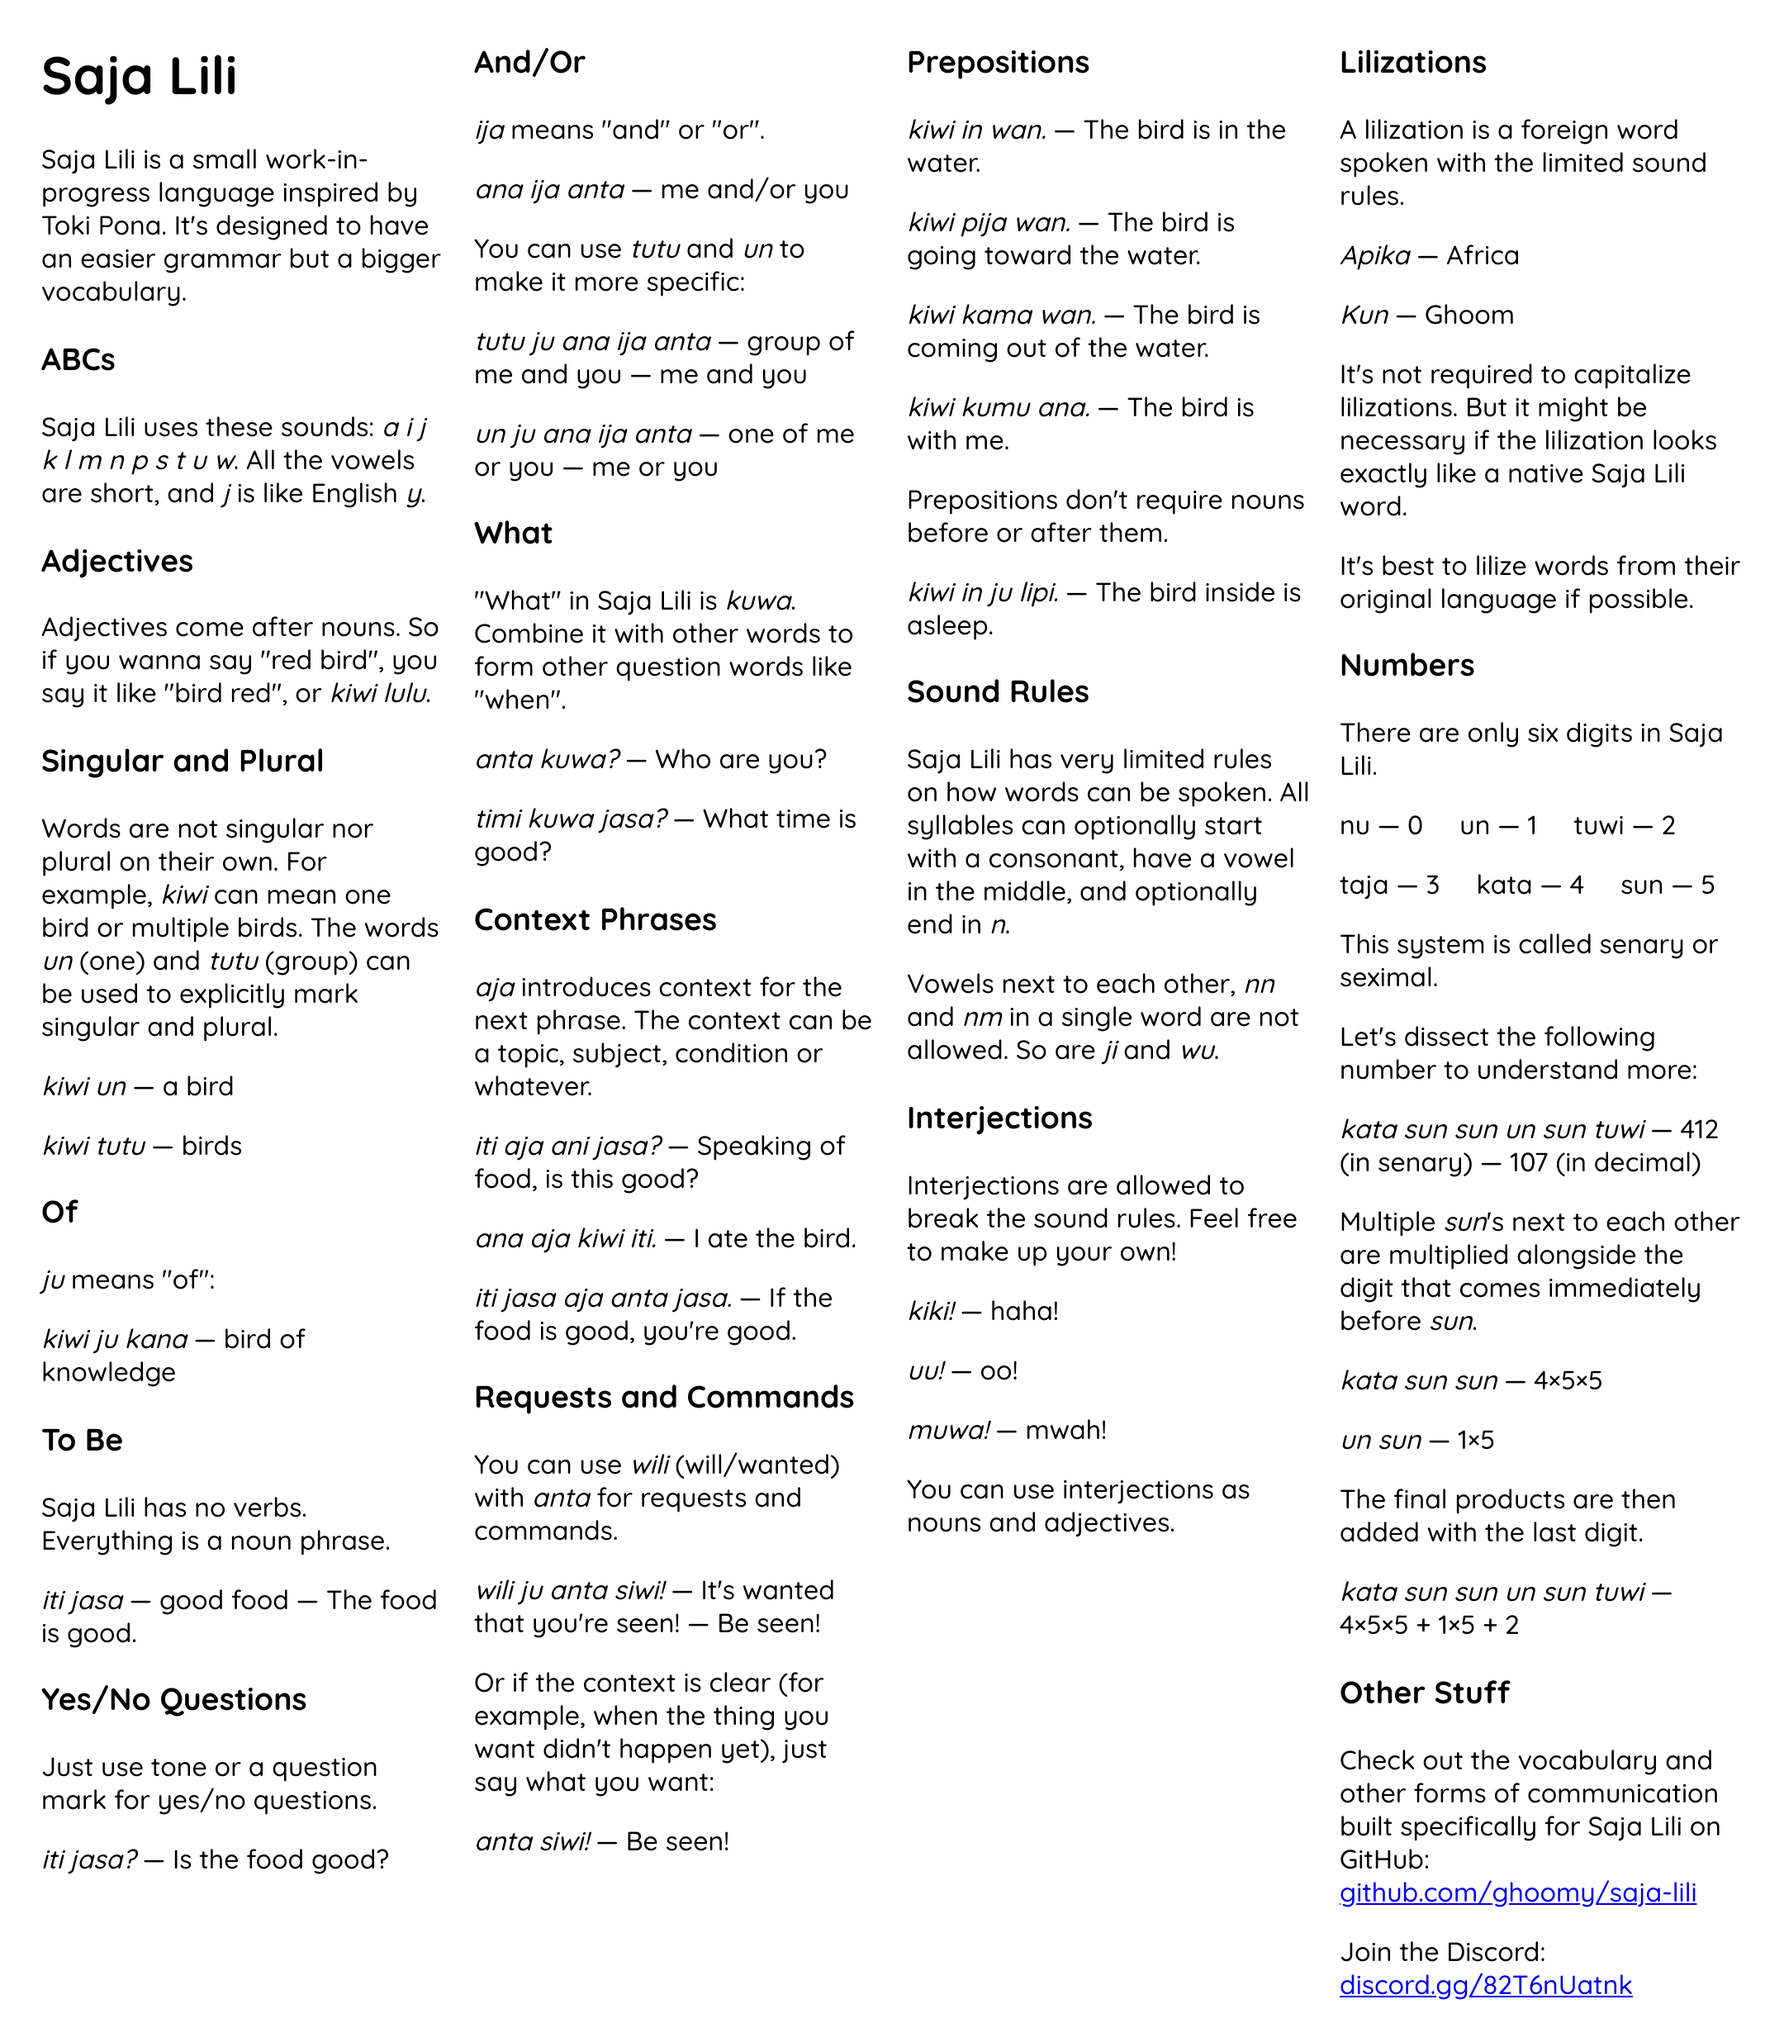
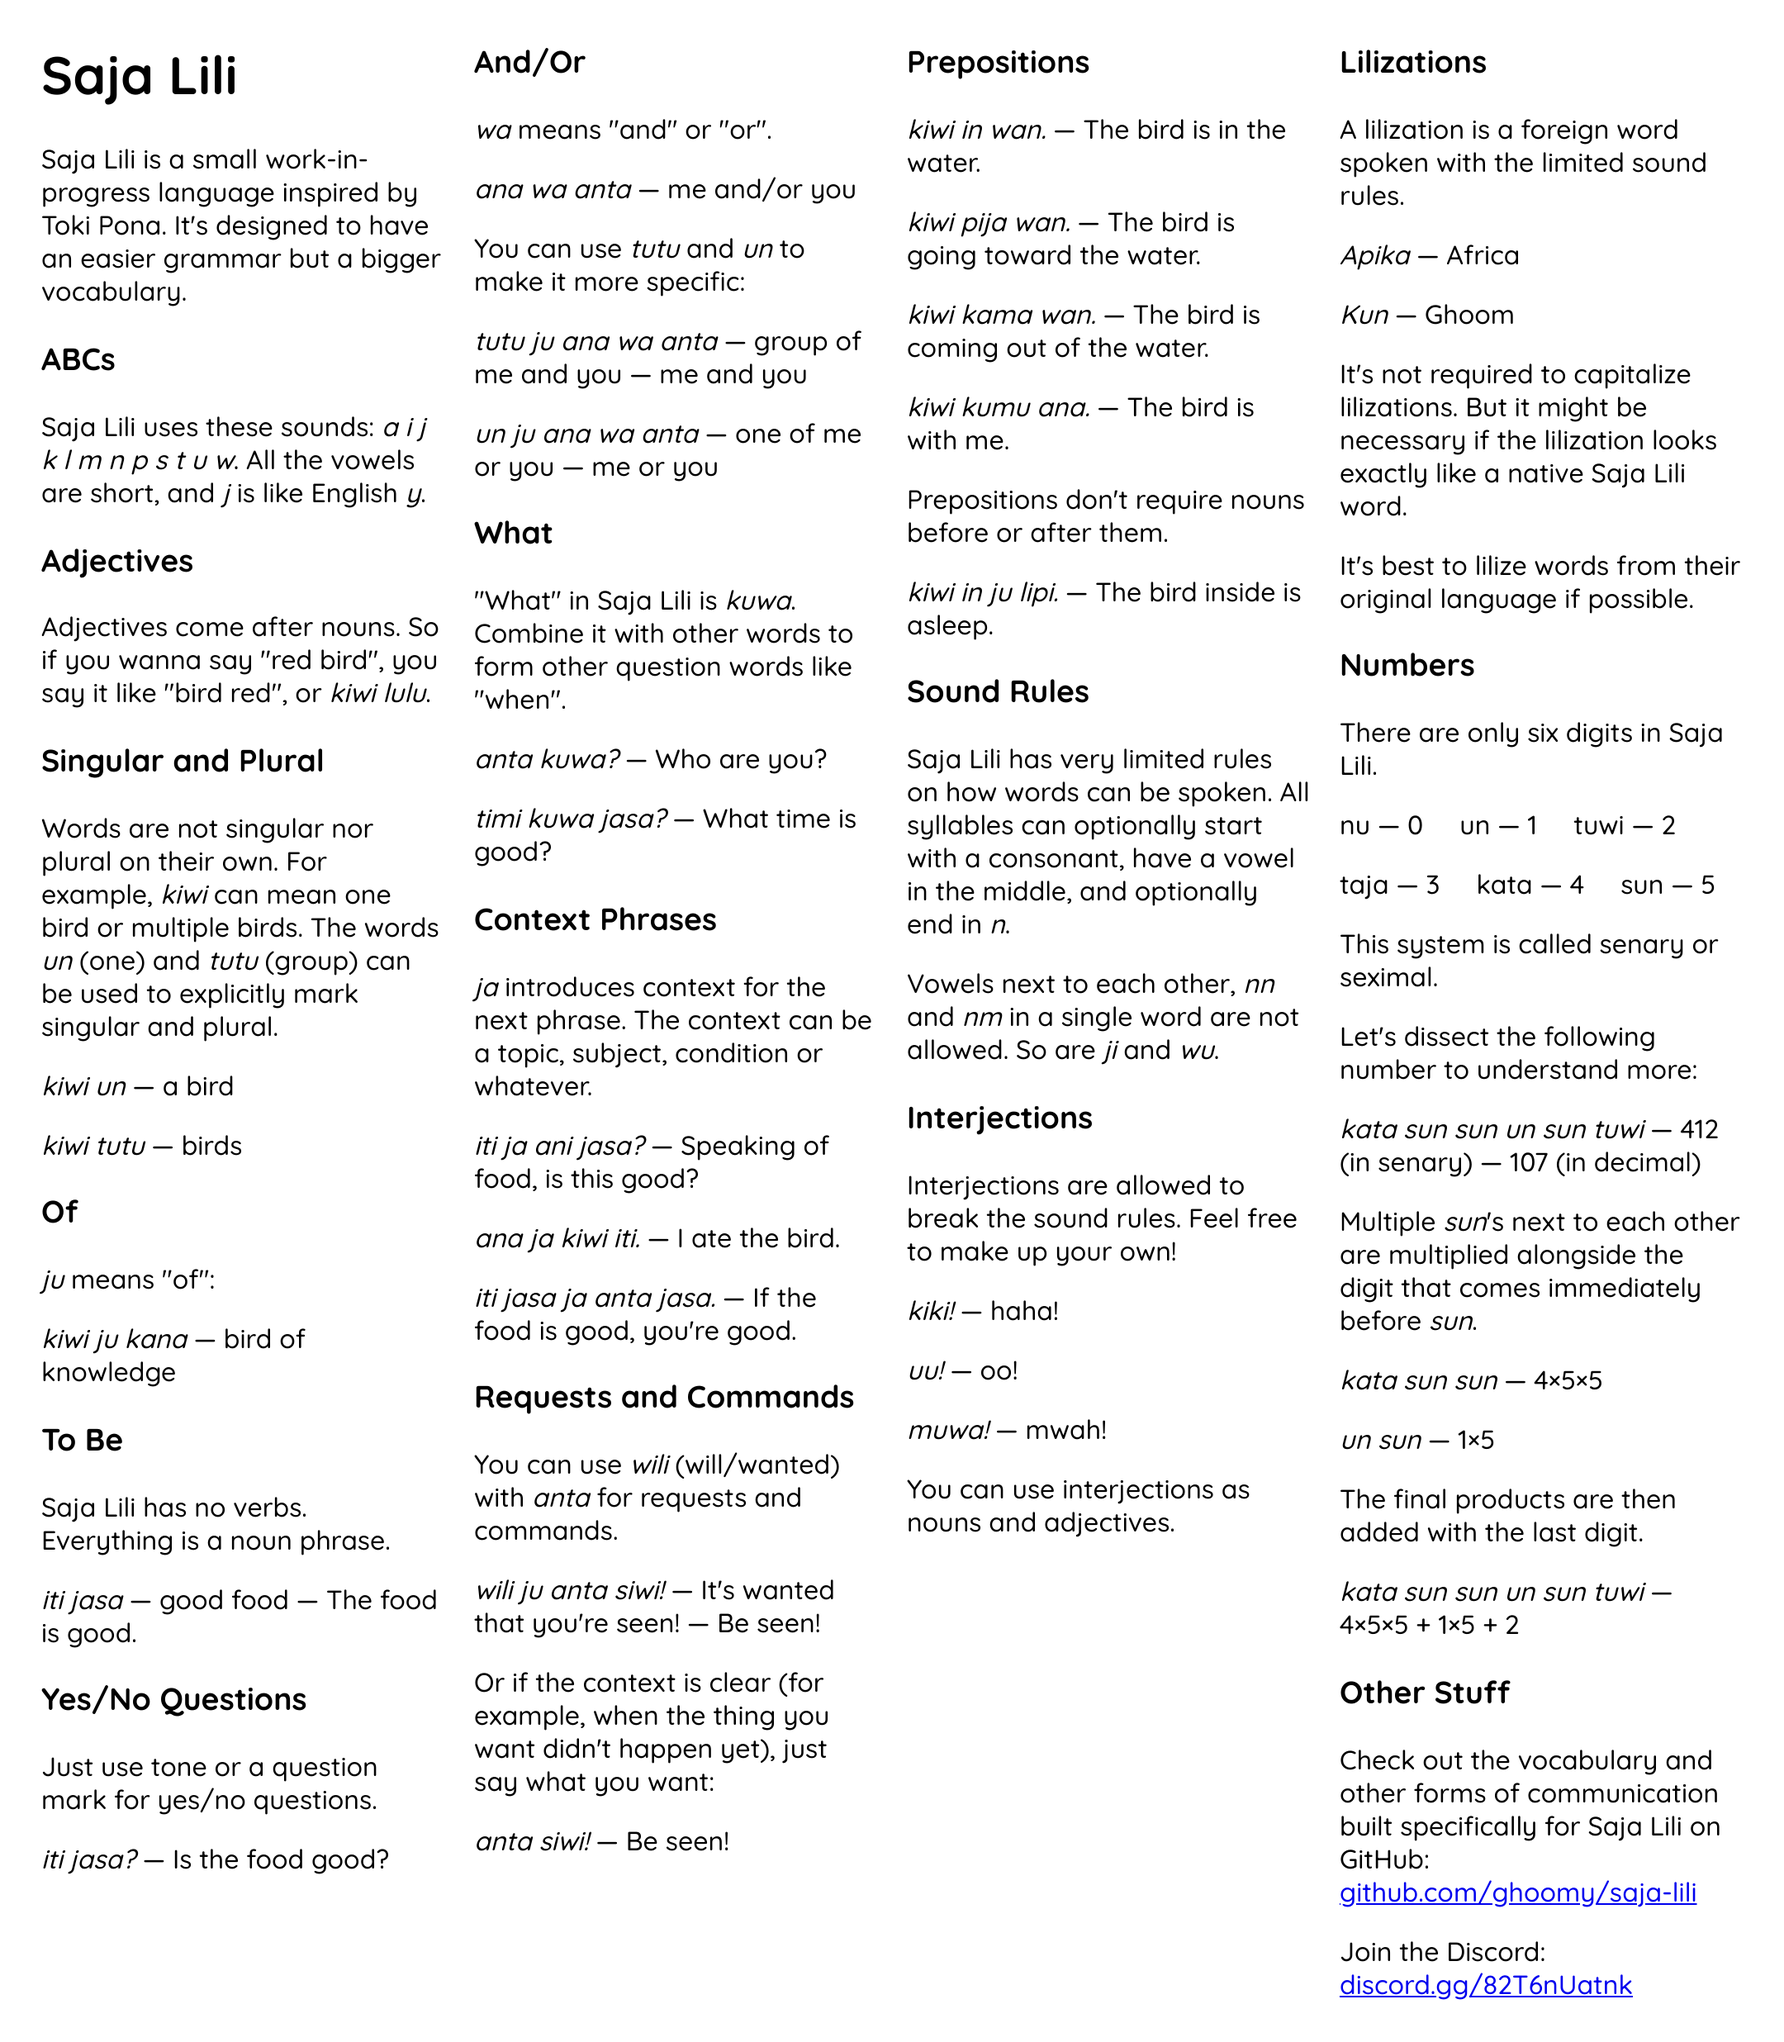
...

diff --git a/dictionary.md b/dictionary.md
@@ -30,6 +30,8 @@ To search a word or definition, press Ctrl+F then type it (press Enter if you st
 
 **mawa** — intense / very
 
+**mata** — more / extra
+
 **lisi** — some / few
 
 **liwi** — mild / not very
@@ -40,9 +42,9 @@ To search a word or definition, press Ctrl+F then type it (press Enter if you st
 
 **ju** — of
 
-**aja** — context marker
+**ja** — context marker
 
-**ija** — and / or
+**wa** — and / or
 
 ## Interjections
 
@@ -70,7 +72,7 @@ These are just ***some*** interjections I thought of:
 
 **timi** — time
 
-**jala** — cycle / repeating
+**wila** — cycle / repeating
 
 ## Nature
 
@@ -88,7 +90,7 @@ These are just ***some*** interjections I thought of:
 
 **nasa** — air or any gas / smell
 
-**wan** — water or any liquid
+**ama** — water or any liquid
 
 ## Rest and Movement
 
@@ -108,7 +110,7 @@ These are just ***some*** interjections I thought of:
 
 **aki** — hit
 
-**atata** — fought / competed-with
+**tata** — fought / competed-with
 
 ## Space and Directions
 
@@ -232,7 +234,7 @@ These are just ***some*** interjections I thought of:
 
 **simi** — seed
 
-**japa** — fruit / vegetable
+**nipi** — fruit / vegetable
 
 **pun** — bread / dough / baked good
 
@@ -258,7 +260,7 @@ These are just ***some*** interjections I thought of:
 
 **sasa** — sibling
 
-**jan** — someone who one knows and is known to
+**kusa** — someone who one knows and is known to
 
 **pansa** — ruler / leader
 
@@ -292,7 +294,7 @@ These are just ***some*** interjections I thought of:
 
 **tusi** — touched
 
-**kusu** — tried / tasted / tested
+**kusi** — tried / tasted / tested
 
 **kaja** — uttered
 
@@ -306,7 +308,7 @@ These are just ***some*** interjections I thought of:
 
 **wili** — wanted / chosen
 
-**wawa** — able / ready / possible
+**kika** — able / ready / possible
 
 **pawa** — awake / aware / sane
 
@@ -320,13 +322,13 @@ These are just ***some*** interjections I thought of:
 
 **musi** — fun
 
-**wata** — tired
+**papata** — tired
 
 **lumu** — calm / relaxed
 
 **misi** — annoyed / uncomfortable
 
-**jasa** — good (as in liked) / beneficial / virtuous / thanks!
+**nama** — good (as in liked) / beneficial / virtuous / thanks!
 
 **iku** — bad (as in disliked) / detrimental / evil
 
@@ -342,13 +344,13 @@ These are just ***some*** interjections I thought of:
 
 **uta** — role / purpose
 
-**ama** — romantically loved
+**lupa** — romantically loved
 
-**lupu** — trusted / believed / dependency / condition
+**kila** — trusted / believed / dependency / condition
 
 **papapa** — scared
 
-**nan** — form / manner / example
+**nani** — form / manner / example
 
 **wimi** — representation / plan / template
 
@@ -372,7 +374,7 @@ These are just ***some*** interjections I thought of:
 
 **limi** — lightweight
 
-**wakuwa** — heavy
+**kakuwa** — heavy
 
 **mija** — soft
 
@@ -394,17 +396,17 @@ These are just ***some*** interjections I thought of:
 
 **niki** — triangular
 
-**jama** — healthy / okay
+**wika** — healthy / okay
 
 **pakaka** — injured / broken
 
-**wapa** — orderly
+**nana** — orderly
 
 **sakala** — messy
 
 **wisi** — clean / clear / pure
 
-**jaki** — dirty / disgusting
+**aku** — dirty / disgusting
 
 **susu** — stroked / rubbed
 
@@ -430,7 +432,7 @@ These are just ***some*** interjections I thought of:
 
 **lanka** — pulled / stretched / spread
 
-**waja** — free (as in freedom)
+**paja** — free (as in freedom)
 
 **putun** — restricted
 
@@ -452,7 +454,7 @@ These are just ***some*** interjections I thought of:
 
 **naja** — unusual / unique
 
-**jaja** — fast
+**aja** — fast
 
 **sululu** — slow
 
@@ -464,8 +466,6 @@ These are just ***some*** interjections I thought of:
 
 **saki** — deserved / fair (as in justice)
 
-**nama** — extra
-
 **piwi** — decorative / fancy / beautiful
 
 **laki** — luck
@@ -474,7 +474,7 @@ These are just ***some*** interjections I thought of:
 
 **kin** — made / achieved / artificial / fake
 
-**wasa** — worn (as in clothes) / cloth
+**lana** — worn (as in clothes) / cloth
 
 **siti** — seat
 
@@ -490,7 +490,7 @@ These are just ***some*** interjections I thought of:
 
 **tama** — room
 
-**wala** — door / window
+**tawa** — door / window
 
 **tapan** — level / step (like a stair)
 
@@ -520,7 +520,7 @@ These are just ***some*** interjections I thought of:
 
 **kimi** — written
 
-**jaka** — rule / instruction
+**puta** — rule / instruction
 
 **isa** — money / merchandise
 
@@ -556,9 +556,9 @@ Combine existing words to describe other colors. For example, *kulu lulu* means 
 
 *wili* — please
 
-*nija jasa* — welcome
+*nija nama* — welcome
 
-*awa jama* — goodbye
+*awa wika* — goodbye
 
 *asin kumu ...* — empathy for ...
 

diff --git a/README.md b/README.md
@@ -55,15 +55,15 @@ Just use tone or a question mark for yes/no questions.
 
 ### And/Or
 
-*ija* means "and" or "or".
+*wa* means "and" or "or".
 
-*ana ija anta* — me and/or you
+*ana wa anta* — me and/or you
 
 You can use *tutu* and *un* to make it more specific:
 
-*tutu ju ana ija anta* — group of me and you — me and you
+*tutu ju ana wa anta* — group of me and you — me and you
 
-*un ju ana ija anta* — one of me or you — me or you
+*un ju ana wa anta* — one of me or you — me or you
 
 ### What
 
@@ -75,13 +75,13 @@ You can use *tutu* and *un* to make it more specific:
 
 ### Context Phrases
 
-*aja* introduces context for the next phrase. The context can be a topic, subject, condition or whatever.
+*ja* introduces context for the next phrase. The context can be a topic, subject, condition or whatever.
 
-*iti aja ani jasa?* — Speaking of food, is this good?
+*iti ja ani jasa?* — Speaking of food, is this good?
 
-*ana aja kiwi iti.* — I ate the bird.
+*ana ja kiwi iti.* — I ate the bird.
 
-*iti jasa aja anta jasa.* — If the food is good, you're good.
+*iti jasa ja anta jasa.* — If the food is good, you're good.
 
 ### Requests and Commands
 
